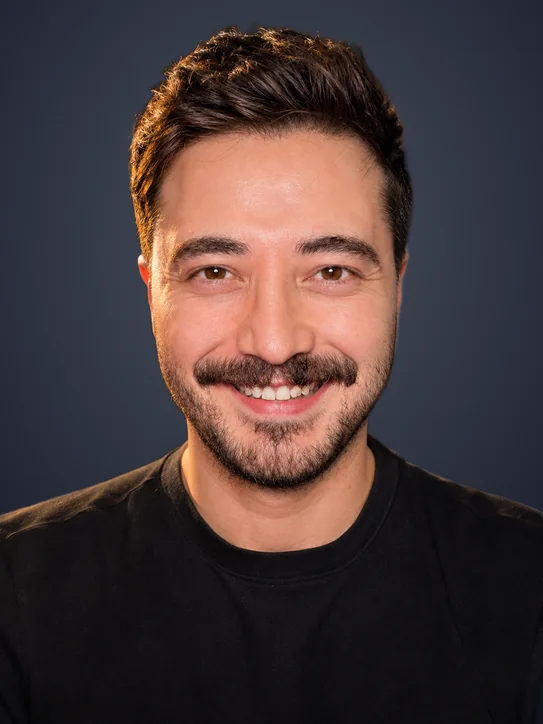
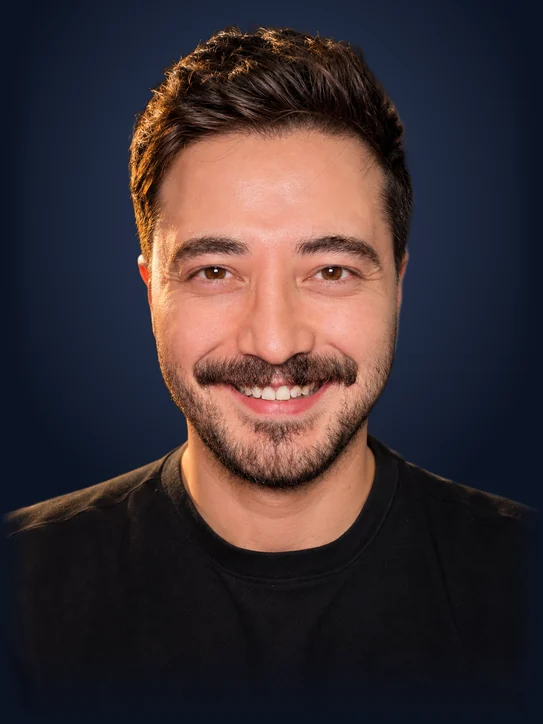
Blend portrait backgrounds into the page
Backdrops now fade to the exact section colour with a soft glow behind
the head, and the photo frame is removed so the portraits sit in the page.

Claude-Session: https://claude.ai/code/session_01Dzdd9oJx14mWNMwUTrE9DB

diff --git a/index.html b/index.html
@@ -164,7 +164,7 @@
                     </div>
                     <p class="mono status">Available for freelance · replies within a day</p>
                 </div>
-                <figure class="fig">
+                <figure class="fig blend">
                     <picture>
                         <source media="(max-width:600px)" srcset="/me/hero-sm.webp">
                         <img src="/me/hero.webp" alt="Üçler Gönültaş in a black t-shirt, arms crossed" width="1086" height="1448" fetchpriority="high">
@@ -361,13 +361,11 @@
         <!-- About -->
         <section id="about" class="section band">
             <div class="wrap about">
-                <figure class="fig reveal">
+                <figure class="fig blend reveal">
                     <picture>
                         <source media="(max-width:600px)" srcset="/me/about-sm.webp">
                         <img src="/me/about.webp" alt="Portrait of Üçler Gönültaş smiling" width="1086" height="1448" loading="lazy">
                     </picture>
-                    <span class="hand" aria-hidden="true">hi!</span>
-                    <svg class="arrow" viewBox="0 0 120 90" aria-hidden="true" fill="none" stroke="currentColor" stroke-width="5" stroke-linecap="round" stroke-linejoin="round"><path d="M108 8C78 6 40 22 16 70"/><path d="M12 44l3 28 26-10"/></svg>
                     <figcaption class="mono">Fig. 2 · Üçler Gönültaş</figcaption>
                 </figure>
                 <div class="about-text reveal">

diff --git a/style.css b/style.css
@@ -110,6 +110,7 @@ p{margin:0}
 /* photo with a hand-drawn pink arrow and a caption */
 .fig{position:relative;margin:0}
 .fig img{width:100%;border-radius:8px;border:1px solid var(--line-2);background:var(--surface)}
+.fig.blend img{border:0;border-radius:0;background:none}
 .fig figcaption{margin-top:12px}
 .hero .fig{max-width:440px;justify-self:center;width:100%}
 .arrow{position:absolute;color:var(--mark);pointer-events:none}
